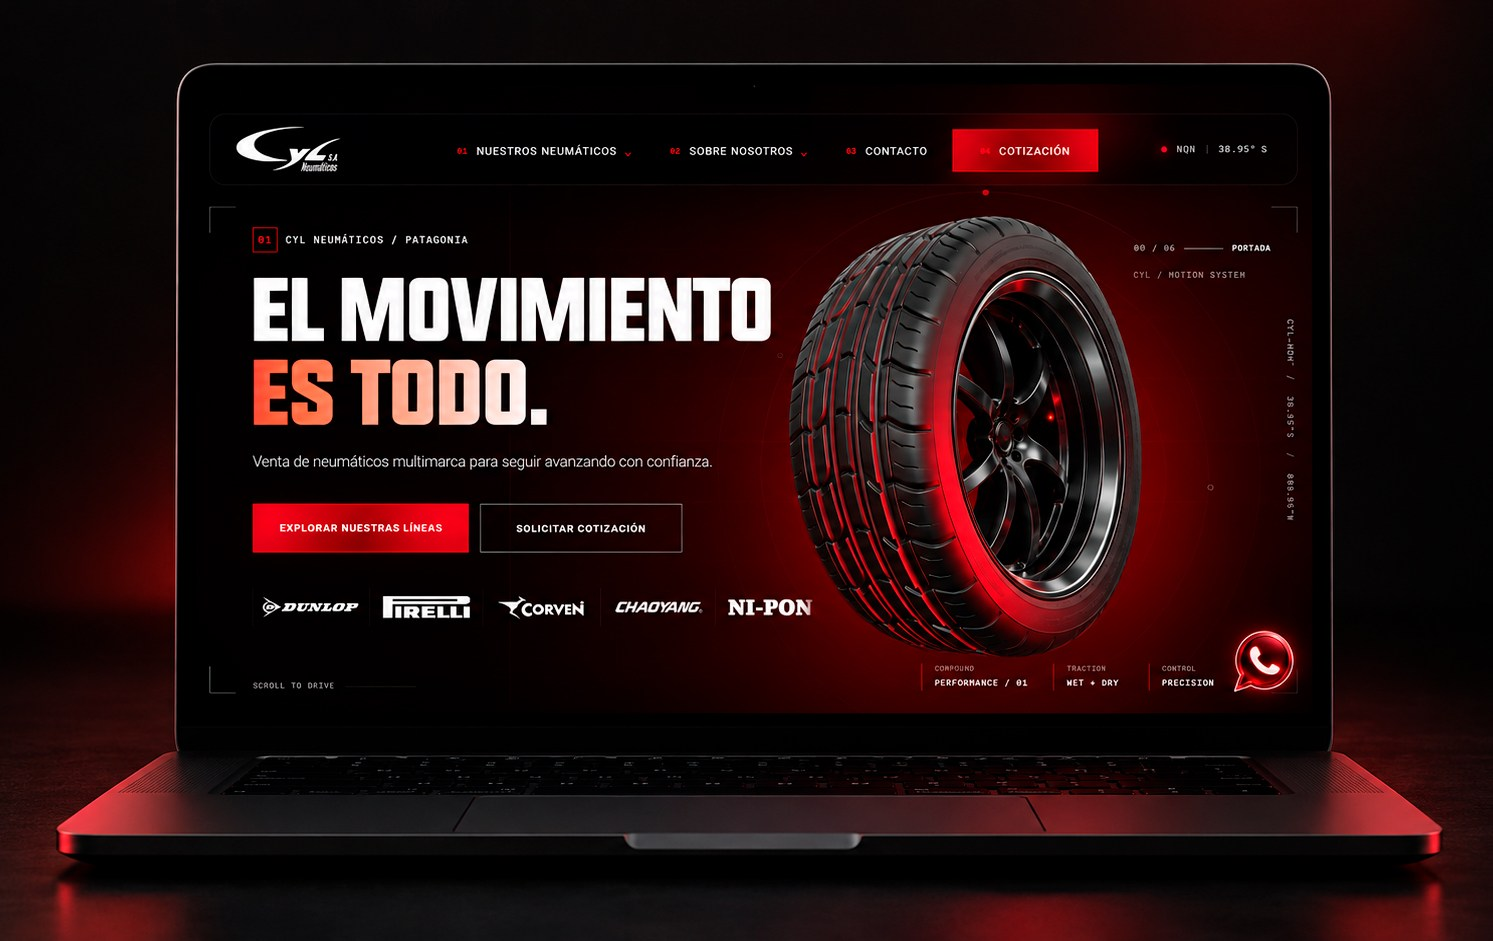
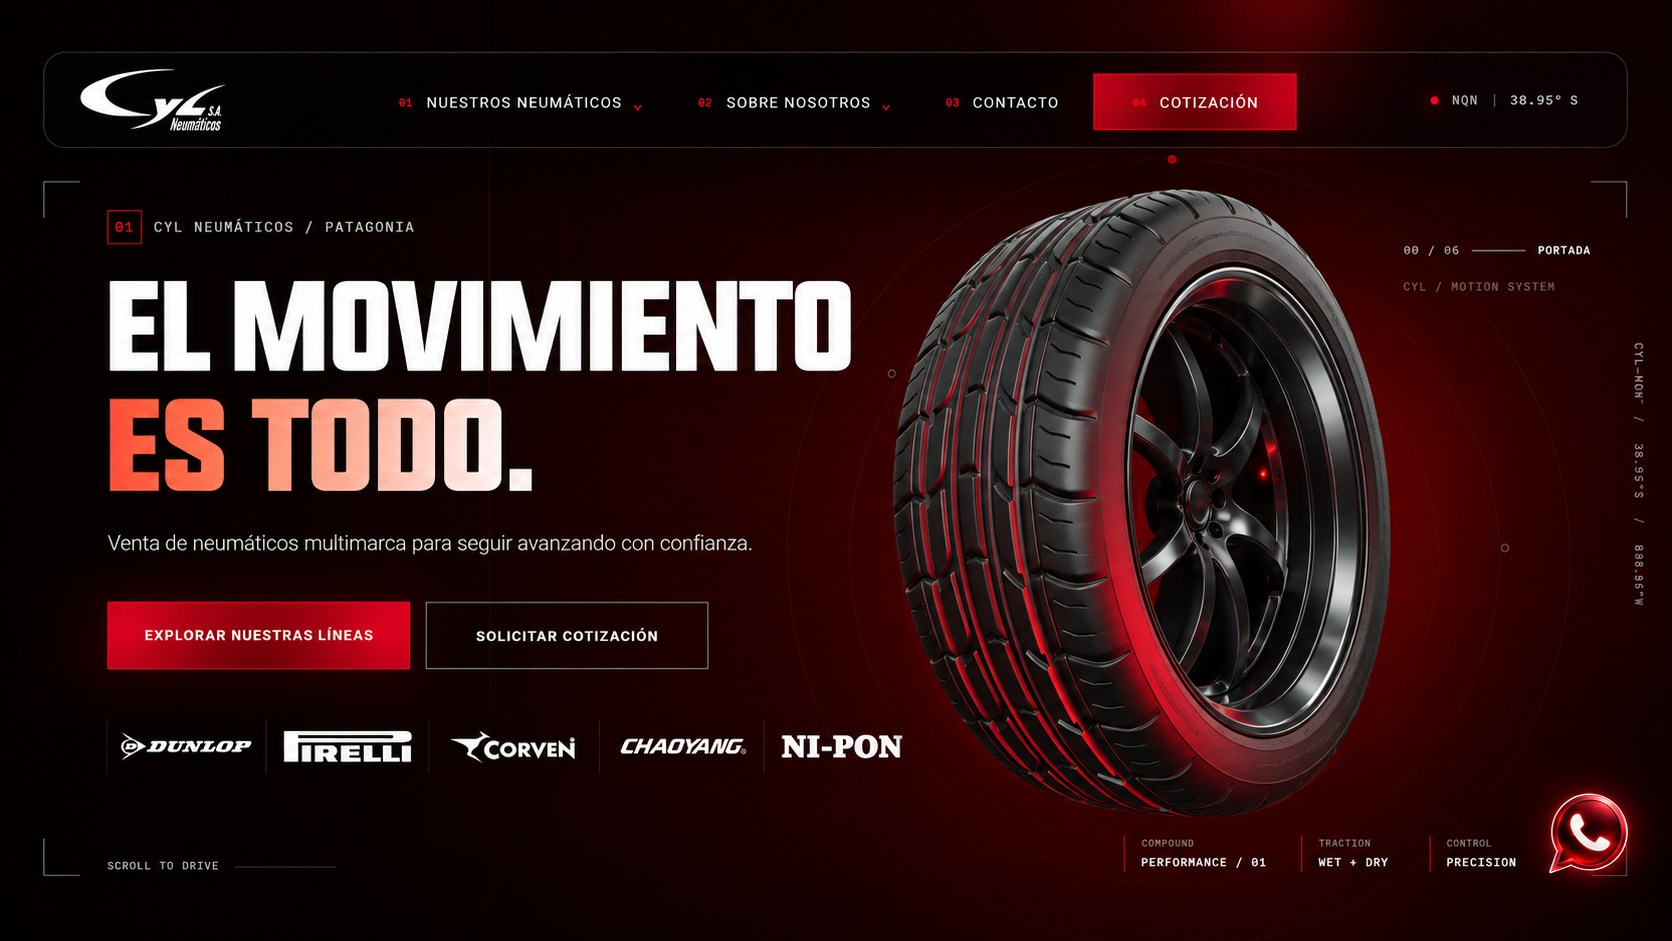
Reemplazar mockup de CYL por captura limpia

diff --git a/components/PortfolioDriftWall.tsx b/components/PortfolioDriftWall.tsx
@@ -46,7 +46,7 @@ const mobileSecondRow: GalleryWork[] = [
 const TILE_W = 340;
 const WIDE_H = Math.round(TILE_W / 1.324);
 const PHONE_H = Math.round(TILE_W / 0.582);
-const CYLSA_H = Math.round(TILE_W / (1493 / 941));
+const CYLSA_H = Math.round(TILE_W / (1672 / 941));
 const SPHERE_H = Math.round(TILE_W / (1672 / 941));
 
 const drift = (name: string) => asset(`/media/casos-exito/drift/${name}`);
